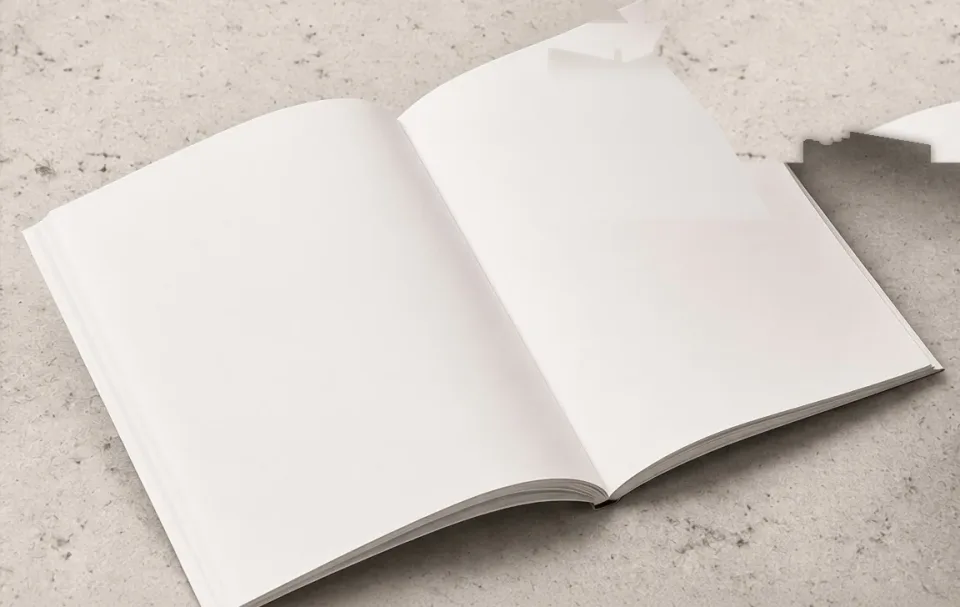
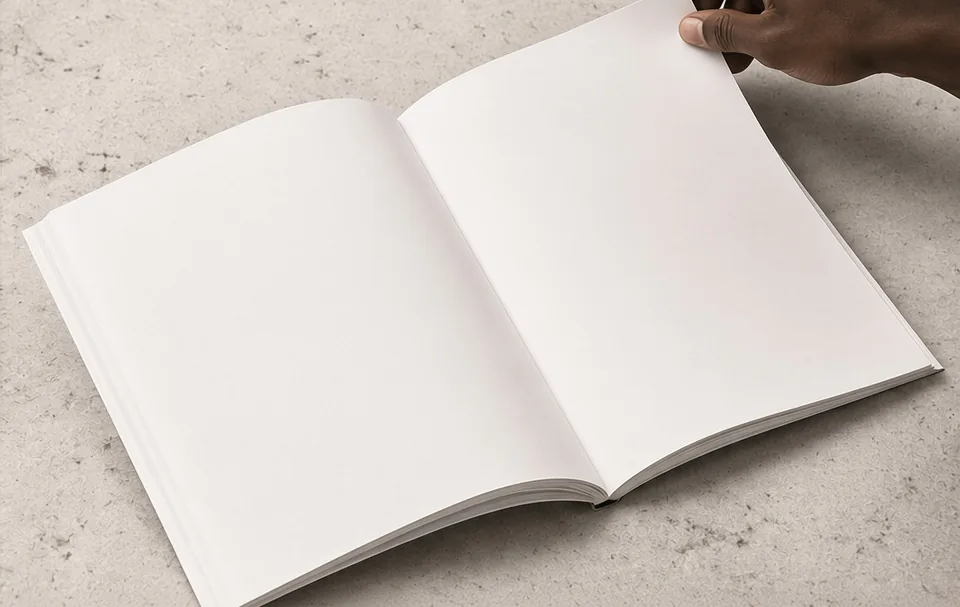
Restore hero hand to the book's corner
* Restore hero hand to the book's corner

* Restore hero hand to the book's corner

Changed region(s): [[0.6875, 0.0, 1.0, 0.2669]]

diff --git a/src/components/HeroBook.css b/src/components/HeroBook.css
@@ -27,29 +27,13 @@
   border: 0; border-top: 1px solid rgba(8, 8, 8, .55);
 }
 
-/* Hand pop-out layer. The hand is cut from the hero photo and sits over it
-   as a separate layer so it can rise above the book and overlap the
-   masthead. The hero photo itself has no hand in it (retouched out Nov 15,
-   2026), so this layer is the only hand and can be positioned freely.
-   Positioned so the fingers/thumb overlap the "O" in THEORY: desktop puts
-   the pinch on the O's lower-left; mobile re-aims it for the narrower
-   masthead. */
+/* Hand pop-out layer. Geometry is in % of the hero box, derived from the source:
+   layer = source x 740–1152, y 0–132; the hero shows source y 72–800 (728 rows). */
 .hero-wrap { position: relative; }
 .hero-book__hand {
   position: absolute; z-index: 5; pointer-events: none; user-select: none;
-  left: 88.8%;              /* pinch on the O's lower-left (desktop) */
+  left: 64.236%;            /* 740 / 1152 */
   width: 35.764%;           /* 412 / 1152 */
-  top: -22.8%;              /* fingers over the O's middle */
+  top: -9.890%;             /* -72 / 728 of the hero height (photo box) */
   height: auto;
-}
-
-@media (max-width: 640px) {
-  .hero-book__hand {
-    /* Smaller on mobile: at full width the hand sprawls over O, R and Y
-       and gets cut off by the screen edge. At 24% it fits inside the
-       viewport with the fingers on the O. */
-    left: 75%;
-    width: 24%;
-    top: -25%;
-  }
 }
